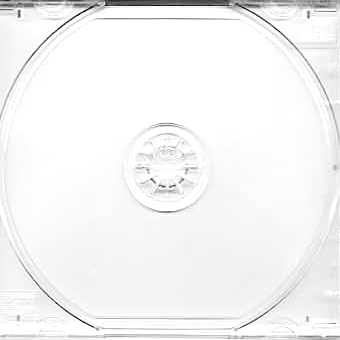
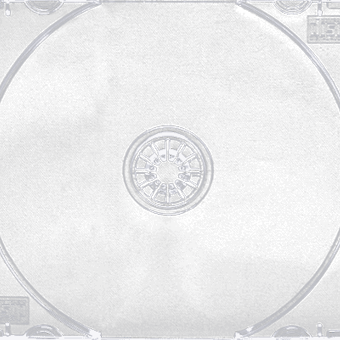
chore: ??

diff --git a/fm/extra_res/README.md b/fm/extra_res/README.md
@@ -1,1 +1,1 @@
-empty_disc.png is sourced from http://www.discmakers.com/shop/ItemGroup.aspx?ItemGroup=CDCASES, cropped and rotated to align - maybe one day i'll try get a picture of this myself
+empty_disc.png is sourced from https://www.wimmedia.com/adtec-cd-jewel-case-tray-heavy-duty-clear-50pk/, cropped and rotated to align - maybe one day i'll try get a picture of this myself
